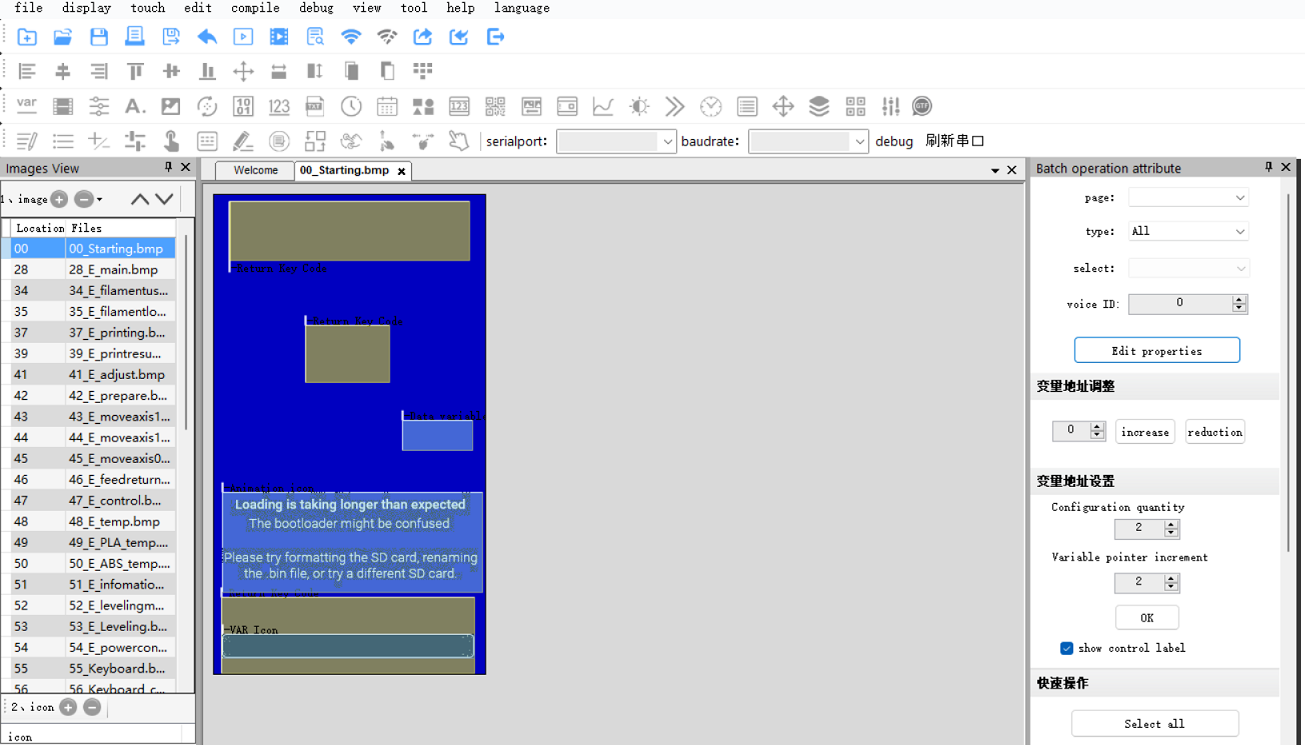
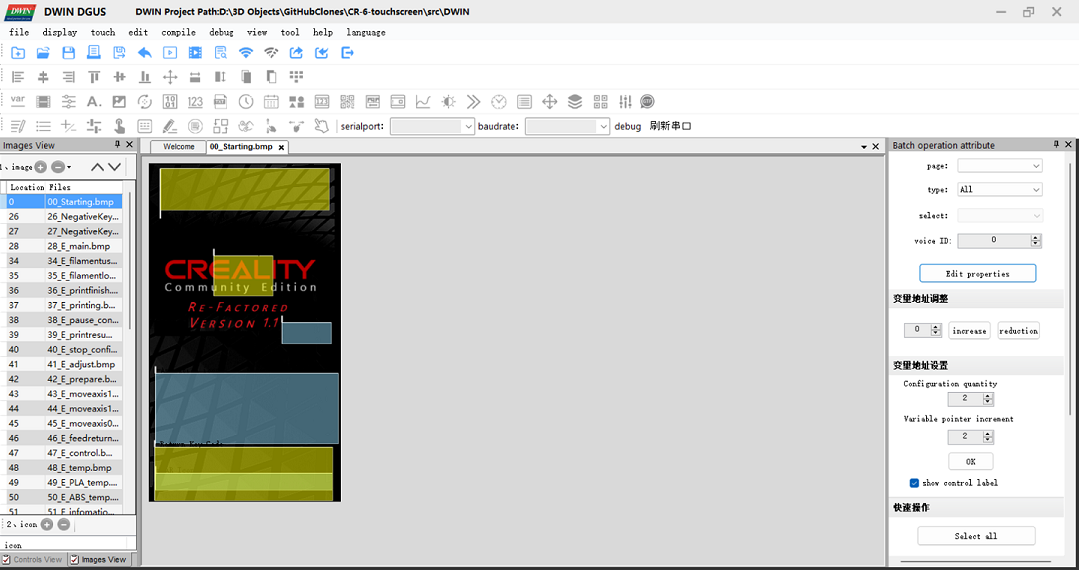
Update dgus2util.png image and in-document reference
Was older pic, pointing to Thinkersbluff repo instead of Images/dgus2util.png

diff --git a/docs/Development Guidelines-WIP/How-To Development Information.MD b/docs/Development Guidelines-WIP/How-To Development Information.MD
@@ -25,7 +25,7 @@ You need [the DGUS v8.2.1.14.x software](https://github.com/CR6Community/CR-6-to
 
 Open the DWprj.hmi file in the [`src\DWIN`](src\DWIN) folder:
 
-![DGUS II interface](https://github.com/Thinkersbluff/CR-6-touchscreen_Thinkersbluff_Fork/blob/extui/doc/dgus2util.png)
+![DGUS II interface](Images/dgus2util.png)
 
 ### Build firmware archive
 
